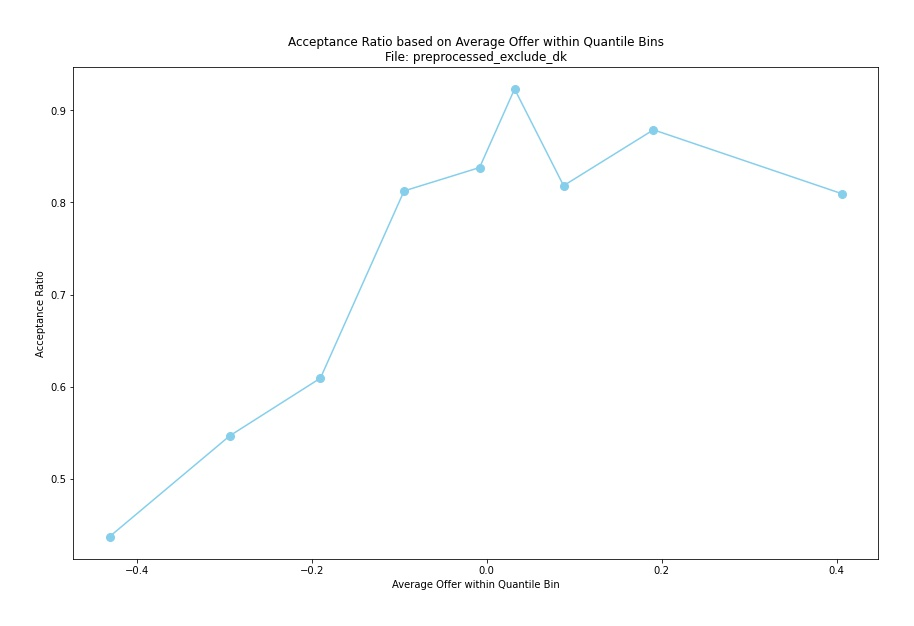
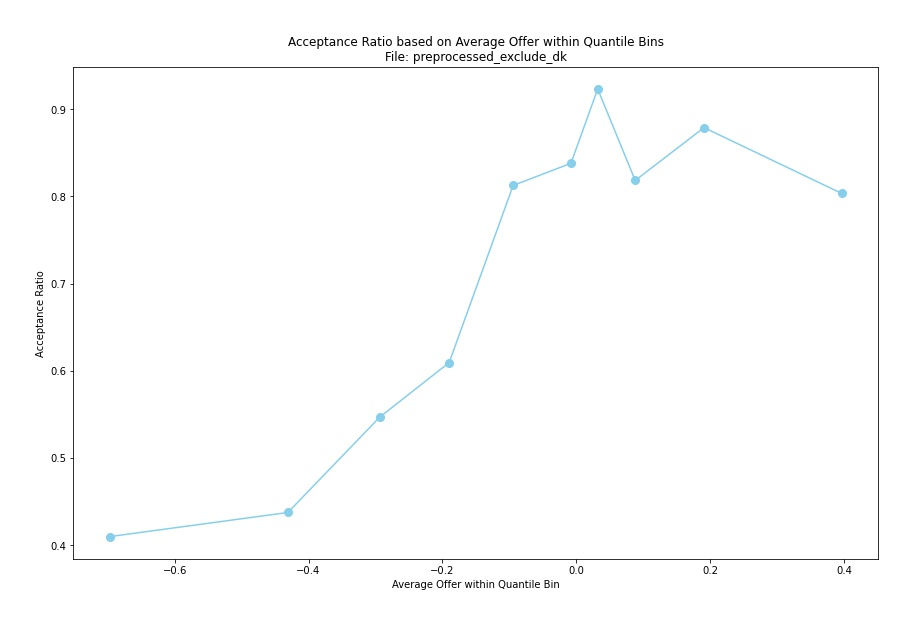
bin setting changed

diff --git a/NJUI/data_visualization.py b/NJUI/data_visualization.py
@@ -64,7 +64,7 @@ def save_line_graph(grouped_data, filename_prefix, result_folder):
 # Generate quantile bins
 def group_data_quantile_bins(filtered_df):
     # Calculate quantiles for binning
-    quantiles = [i * 0.1 for i in range(1, 11)]  # 10 quantiles from 10th to 100th percentile
+    quantiles = [-0.1+ i * 0.1 for i in range(1, 11)]  # 10 quantiles from 10th to 100th percentile
 
     # Create quantile bins based on wage_difference
     bins = filtered_df['wage_difference'].quantile(quantiles)
